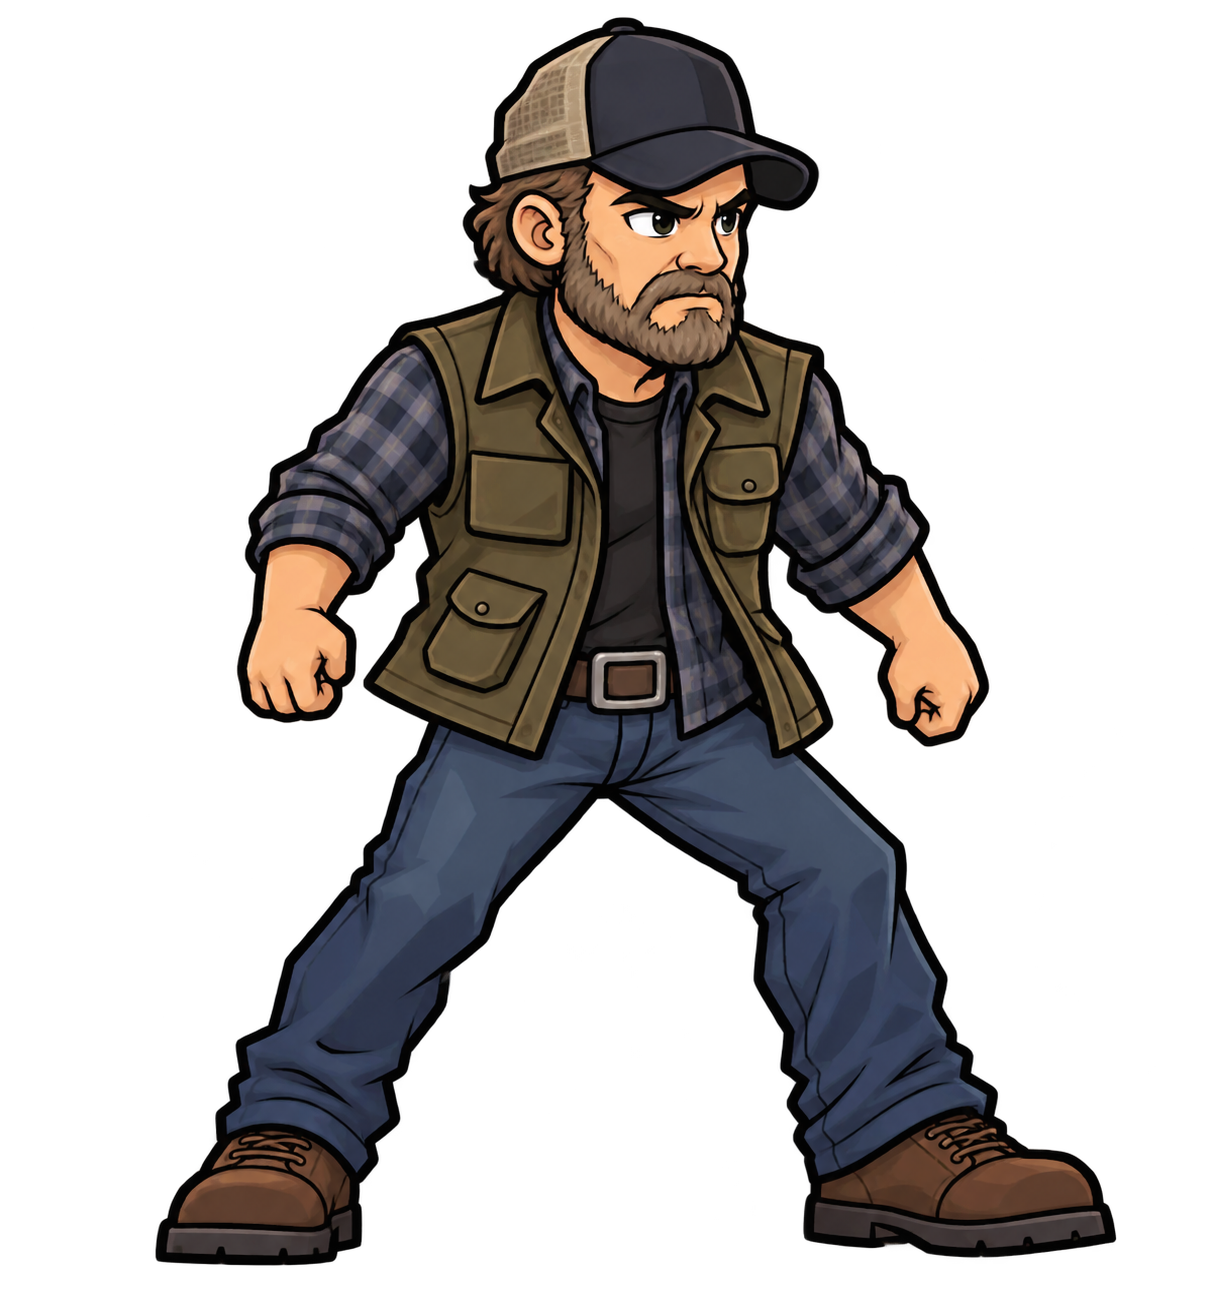
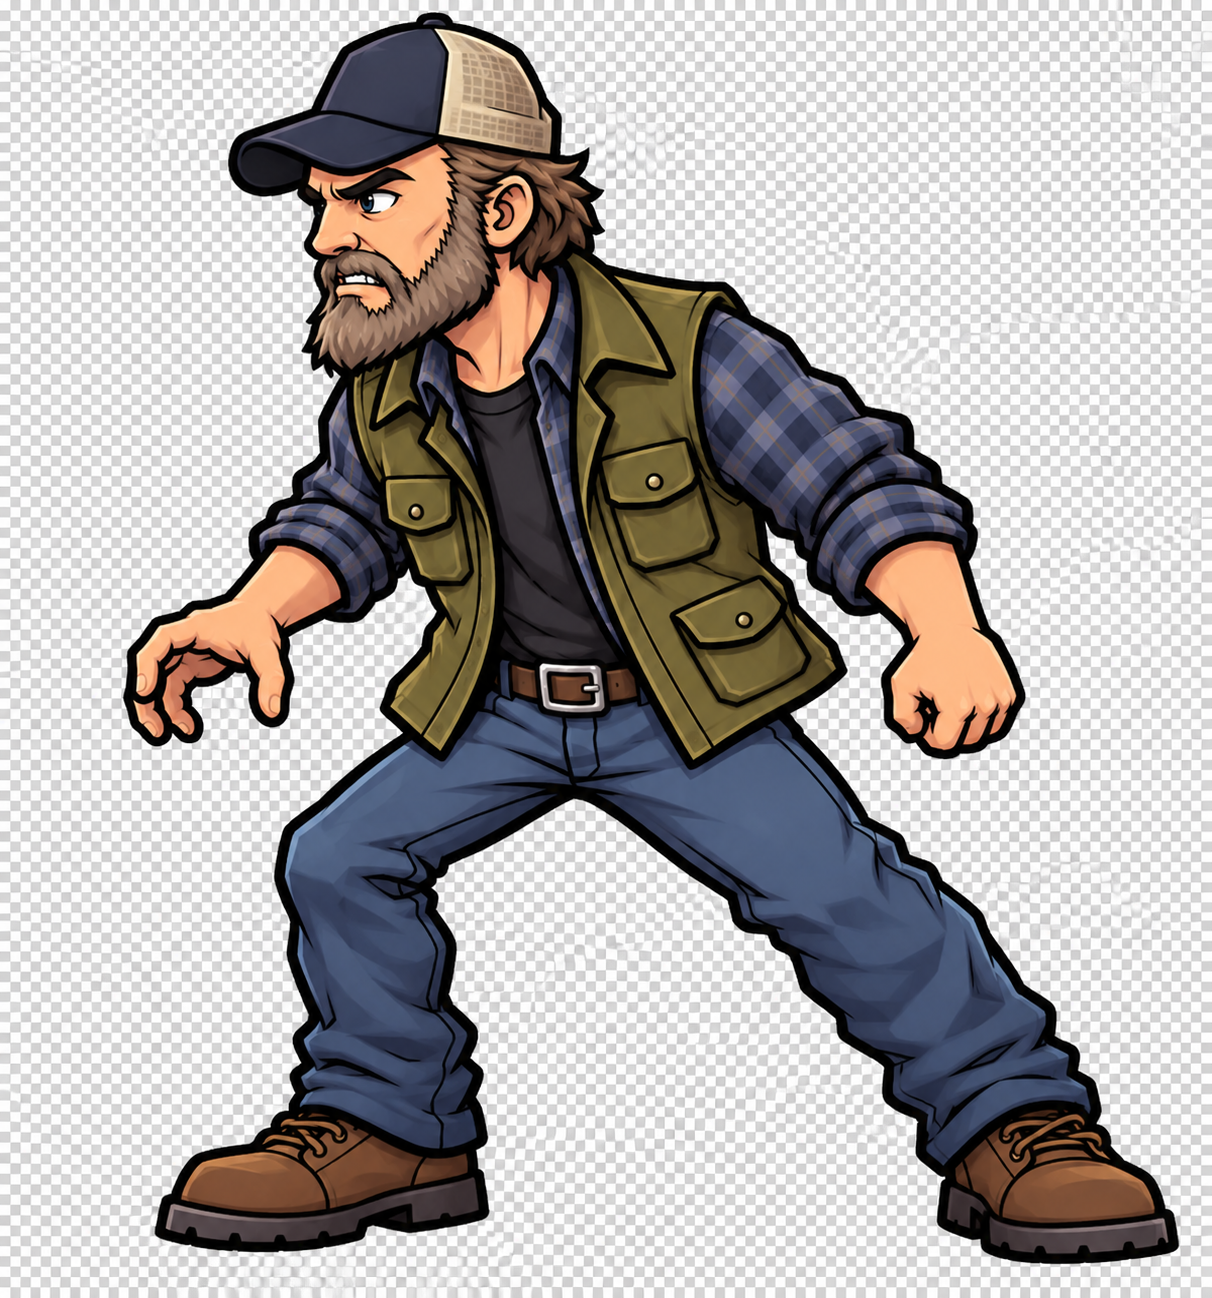
endOfDay

diff --git a/JS/bobby.js b/JS/bobby.js
@@ -1,0 +1,35 @@
+class Bobby {
+  constructor() {
+    this.gameScreen = document.querySelector(".game-screen");
+    this.element = document.createElement("div");
+    this.image = "images/bobby.png";
+    this.isFriendly = true;
+
+    const stageWidth = Math.max(this.gameScreen.clientWidth, 300);
+    const floor = this.gameScreen.querySelector(".floor");
+    const floorHeight = floor ? floor.clientHeight : 60;
+
+    this.width = Math.round(Math.max(36, Math.min(68, stageWidth * 0.068)));
+    this.height = this.width;
+    this.x = this.gameScreen.clientWidth;
+    this.y = Math.max(0, floorHeight - 2);
+    this.speed = Math.max(3, Math.round(stageWidth * 0.005));
+
+    this.element.style.position = "absolute";
+    this.element.style.width = `${this.width}px`;
+    this.element.style.height = `${this.height}px`;
+    this.element.style.bottom = `${this.y}px`;
+    this.element.style.left = `${this.x}px`;
+    this.element.style.backgroundImage = `url("${this.image}")`;
+    this.element.style.backgroundPosition = "center";
+    this.element.style.backgroundSize = "cover";
+    this.element.style.backgroundRepeat = "no-repeat";
+
+    this.gameScreen.appendChild(this.element);
+  }
+
+  move() {
+    this.x -= this.speed;
+    this.element.style.left = `${this.x}px`;
+  }
+}

diff --git a/index.html b/index.html
@@ -24,7 +24,7 @@
       <div id="choice2" class="choice"></div>
       <h1>Supernatural</h1>
       <h3>THE GAME</h3>
-      <p>Use the "A" and "D" keys to help the winchesters jump and move.</p>
+      <p>Use the "A" and "D" keys to help the Winchesters jump and move.</p>
       <p>Use the spacebar to make them jump.</p>
       <p>Use the mouse left button to shoot</p>
       <button id="start-game-btn" class="start-game-btn">START GAME</button>
